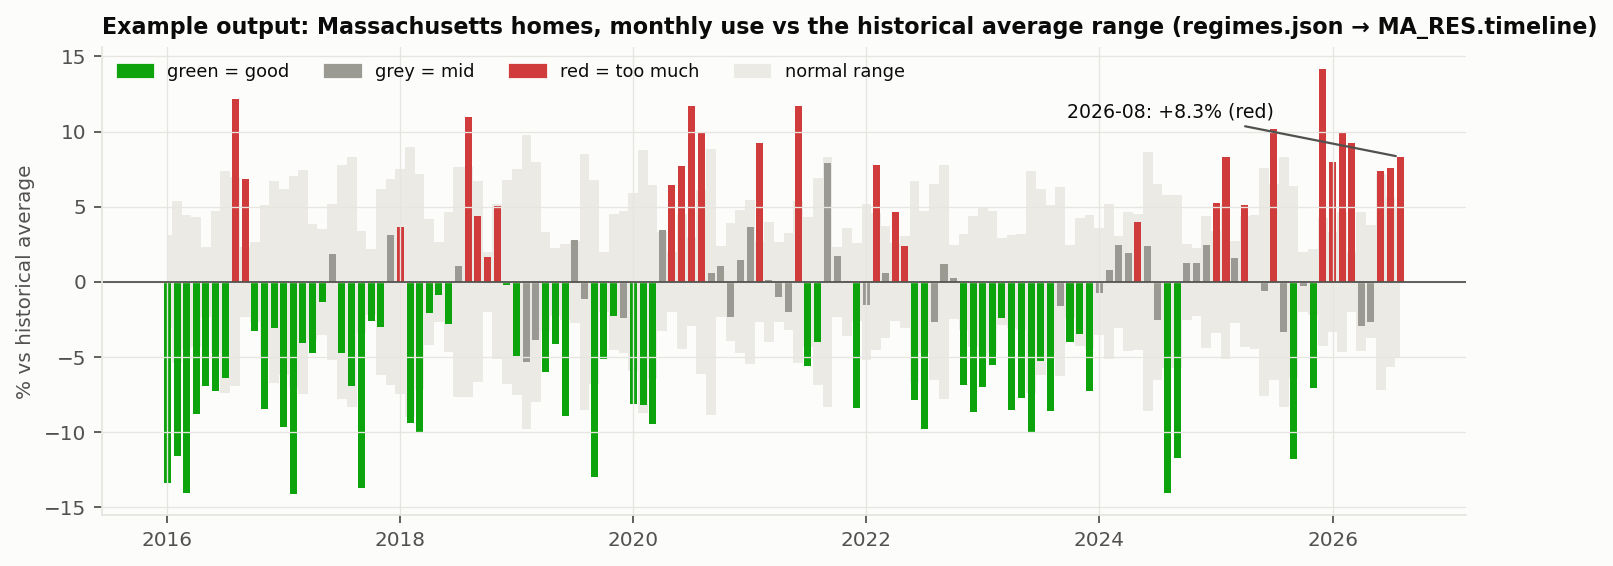
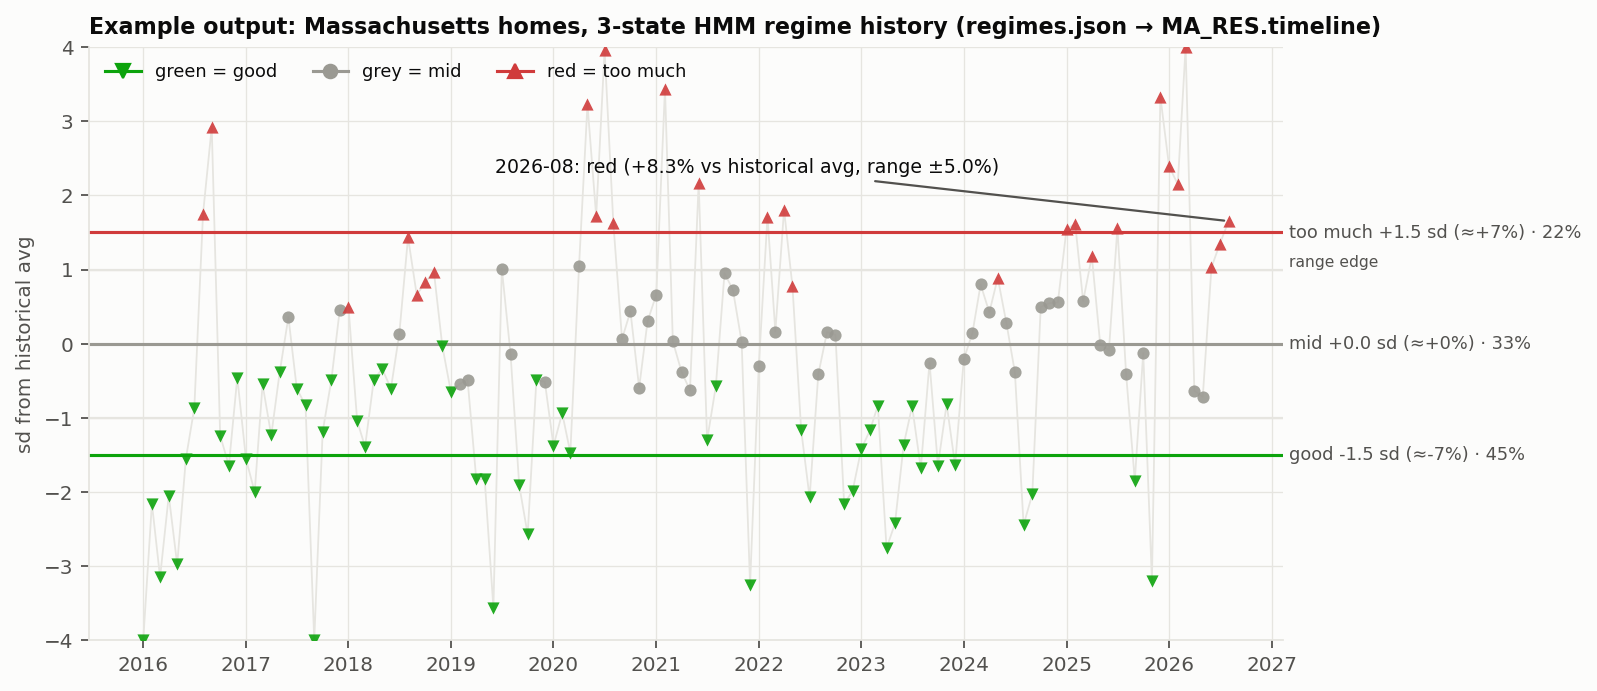
Regime history in the 3-state HMM format; use viz/ for the Monte Carlo fan
- regime history charts (docs/img/tests/hmm_states_timeline.png, docs/img/examples/example_regime_history.png):
  points = sd from the historical average, colour + marker = filtered state, three state-mean lines
  (good -1.5 sd / mid 0 / too much +1.5 sd, with the typical % per area) and the +/-1 sd range edges
- removed docs/img/examples/example_mc_fan.png: the fan chart in viz/ is the one to use

diff --git a/Backend/tests/backend/make_test_charts.py b/Backend/tests/backend/make_test_charts.py
@@ -40,33 +40,50 @@ def save(fig, name):
     print("wrote", path)
 
 
+ZLIM = 4.0
+
+
+def regime_panel(ax, a, big=False):
+    """3-state HMM format: each point = z (sd from the historical average), colour + marker = filtered state,
+    three horizontal state-mean lines (anchored -1.5 / 0 / +1.5 sd) labelled with the typical % for this area."""
+    tl = a["timeline"]
+    dd = np.array([dt.date.fromisoformat(e["date"]) for e in tl])
+    z = np.clip(np.array([e["pctVsAverage"] / e["bandPct"] for e in tl]), -ZLIM, ZLIM)
+    typical_band = float(np.median([e["bandPct"] for e in tl]))
+    for edge in (-1, 1):
+        ax.axhline(edge, color=GRID, lw=1.0)
+    size = (30 if big else 22) if a["unit"] == "month" else (12 if big else 7)
+    for st in a["states"]:
+        c = st["color"]
+        hexc, mk, lab = STATE[c]
+        sel = np.array([e["color"] == c for e in tl])
+        ax.scatter(dd[sel], z[sel], s=size, marker=mk, color=hexc, linewidths=0, alpha=0.9, zorder=3)
+        m = st["meanSdFromAverage"]
+        ax.axhline(m, color=hexc, lw=1.4, zorder=2)
+        ax.text(1.005, m, f"{lab} {m:+.1f} sd (≈{m * typical_band:+.0f}%) · {st['shareOfDays']:.0%}",
+                transform=ax.get_yaxis_transform(), va="center", fontsize=8, color=INK2)
+    if big:
+        ax.text(1.005, 1, "range edge", transform=ax.get_yaxis_transform(), va="bottom", fontsize=7, color=INK2)
+    ax.set_ylim(-ZLIM, ZLIM)
+    ax.set_ylabel("sd from historical avg")
+    ax.xaxis.set_major_locator(mdates.YearLocator())
+    ax.xaxis.set_major_formatter(mdates.DateFormatter("%Y"))
+    return dd, z
+
+
 def chart_timeline(doc):
-    fig, axes = plt.subplots(5, 1, figsize=(11, 11.5))
+    fig, axes = plt.subplots(5, 1, figsize=(12, 12))
     for ax, a in zip(axes, doc["areas"]):
-        tl = a["timeline"]
-        dd = [dt.date.fromisoformat(e["date"]) for e in tl]
-        v = np.array([e["pctVsAverage"] for e in tl])
-        band = np.array([e["bandPct"] for e in tl])
-        ax.fill_between(dd, -band, band, color="#ebeae5", lw=0, step="mid", label="historical average range (avg ± 1 sd)")
-        ax.axhline(0, color=INK2, lw=0.8)
-        for c, (hexc, mk, lab) in STATE.items():
-            sel = np.array([e["color"] == c for e in tl])
-            ax.scatter(np.array(dd)[sel], v[sel], s=7 if a["unit"] == "day" else 22, marker=mk, color=hexc, linewidths=0,
-                       label=f"{c} = {lab}")
+        regime_panel(ax, a)
         unit = "daily, all customers" if a["unit"] == "day" else "monthly, homes (kWh per account)"
-        ax.set_title(f"{a['area']} ({unit}): {a['states'][2]['shareOfDays']:.0%} red · {a['states'][1]['shareOfDays']:.0%} grey · "
-                     f"{a['states'][0]['shareOfDays']:.0%} green · agrees with the plain range rule {a['agreementWithBandRule']:.0%}",
-                     loc="left", fontsize=9)
-        ax.set_ylabel("% vs historical avg")
-        lim = max(15, float(np.nanpercentile(np.abs(v), 99.5)) + 2)
-        ax.set_ylim(-lim, lim)
-        ax.xaxis.set_major_locator(mdates.YearLocator())
-        ax.xaxis.set_major_formatter(mdates.DateFormatter("%Y"))
-    axes[0].legend(loc="upper left", ncol=4, frameon=False, fontsize=7.5, markerscale=2)
-    fig.suptitle("HMM regimes vs the historical average range (same period, previous 5 years), forward-filtered\n"
-                 "red = above the range · grey = within · green = below; each mark is one day (zones) or one month (MA_RES)",
-                 x=0.01, ha="left", fontsize=10.5, fontweight="bold")
-    fig.tight_layout()
+        ax.set_title(f"{a['area']} ({unit}) · current {a['current']['date']}: {a['current']['color']} · agrees with the "
+                     f"plain range rule {a['agreementWithBandRule']:.0%}", loc="left", fontsize=9)
+    handles = [plt.Line2D([], [], marker=STATE[c][1], color=STATE[c][0], lw=1.4, label=f"{c} = {STATE[c][2]}") for c in STATE]
+    fig.legend(handles=handles, loc="lower center", ncol=3, frameon=False, fontsize=8.5, bbox_to_anchor=(0.43, 0.0))
+    fig.suptitle("3-state HMM regimes vs the historical average range (same period, previous 5 years), forward-filtered\n"
+                 "points = each day (zones) or month (MA_RES) in sd from the historical average · coloured lines = the three "
+                 "state means · thin grey lines = range edges (±1 sd)", x=0.01, ha="left", fontsize=10, fontweight="bold")
+    fig.tight_layout(rect=(0, 0.025, 0.86, 0.96))
     save(fig, "hmm_states_timeline.png")
 
 
@@ -207,22 +224,18 @@ def example_lights(doc):
 
 def example_history(doc):
     a = next(x for x in doc["areas"] if x["area"] == "MA_RES")
-    tl = a["timeline"]
-    dd = [dt.date.fromisoformat(e["date"]) for e in tl]
-    v = np.array([e["pctVsAverage"] for e in tl])
-    band = np.array([e["bandPct"] for e in tl])
-    fig, ax = plt.subplots(figsize=(11, 3.8))
-    ax.fill_between(dd, -band, band, step="mid", color="#ebeae5", lw=0, label="normal range (historical avg ± 1 sd)")
-    ax.bar(dd, v, width=22, color=[STATE[e["color"]][0] for e in tl])
-    ax.axhline(0, color=INK2, lw=0.8)
-    last = tl[-1]
-    ax.annotate(f"{last['date'][:7]}: {last['pctVsAverage']:+.1f}% ({last['color']})", (dd[-1], v[-1]), xytext=(-150, 18),
-                textcoords="offset points", fontsize=8.5, arrowprops={"arrowstyle": "-", "color": INK2})
-    handles = [plt.Rectangle((0, 0), 1, 1, color=STATE[c][0]) for c in STATE] + [plt.Rectangle((0, 0), 1, 1, color="#ebeae5")]
-    ax.legend(handles, [f"{c} = {STATE[c][2]}" for c in STATE] + ["normal range"], loc="upper left", ncol=4, frameon=False, fontsize=8)
-    ax.set_ylabel("% vs historical average")
-    ax.set_title("Example output: Massachusetts homes, monthly use vs the historical average range "
-                 "(regimes.json → MA_RES.timeline)", loc="left")
+    fig, ax = plt.subplots(figsize=(12, 4.4))
+    dd, z = regime_panel(ax, a, big=True)
+    ax.plot(dd, z, color=GRID, lw=0.8, zorder=1)
+    last = a["timeline"][-1]
+    ax.annotate(f"{last['date'][:7]}: {last['color']} ({last['pctVsAverage']:+.1f}% vs historical avg, range ±{last['bandPct']:.1f}%)",
+                (dd[-1], z[-1]), xytext=(-330, 22), textcoords="offset points", fontsize=8.5,
+                arrowprops={"arrowstyle": "-", "color": INK2})
+    handles = [plt.Line2D([], [], marker=STATE[c][1], color=STATE[c][0], lw=1.4, label=f"{c} = {STATE[c][2]}") for c in STATE]
+    ax.legend(handles=handles, loc="upper left", ncol=3, frameon=False, fontsize=8)
+    ax.set_title("Example output: Massachusetts homes, 3-state HMM regime history (regimes.json → MA_RES.timeline)",
+                 loc="left")
+    fig.tight_layout(rect=(0, 0, 0.84, 1))
     save_to(fig, EX, "example_regime_history.png")
 
 
@@ -334,5 +347,4 @@ if __name__ == "__main__":
     chart_fan(mcd)
     example_lights(reg)
     example_history(reg)
-    example_fan(mcd)
     example_map(reg)
